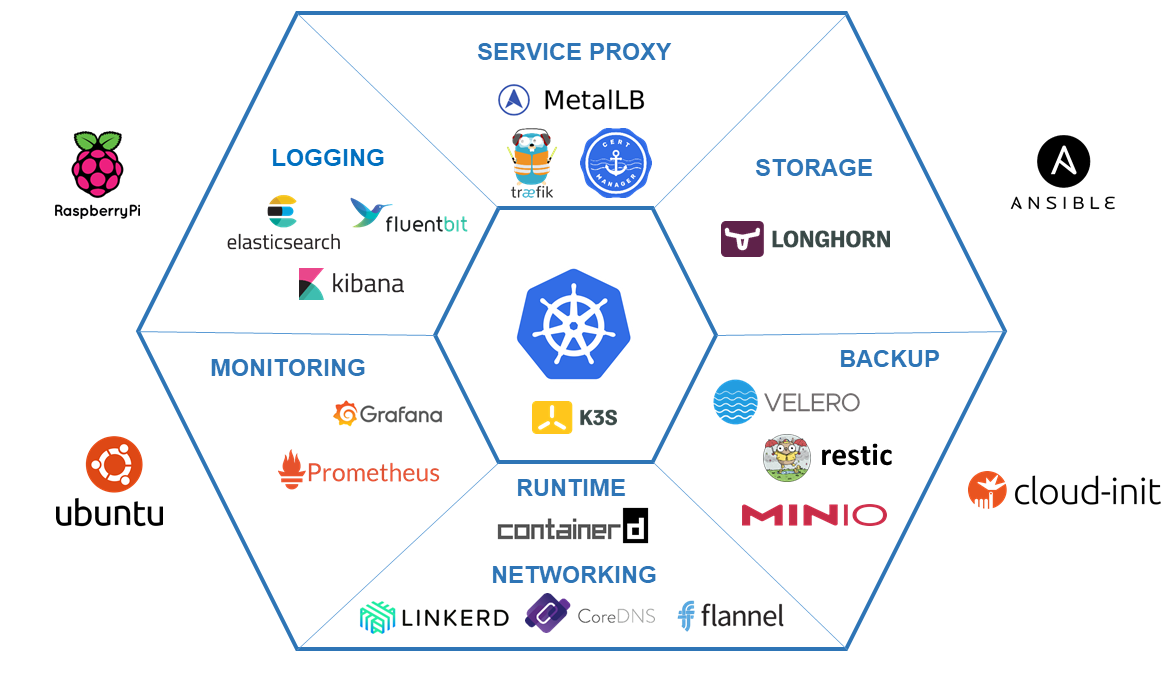
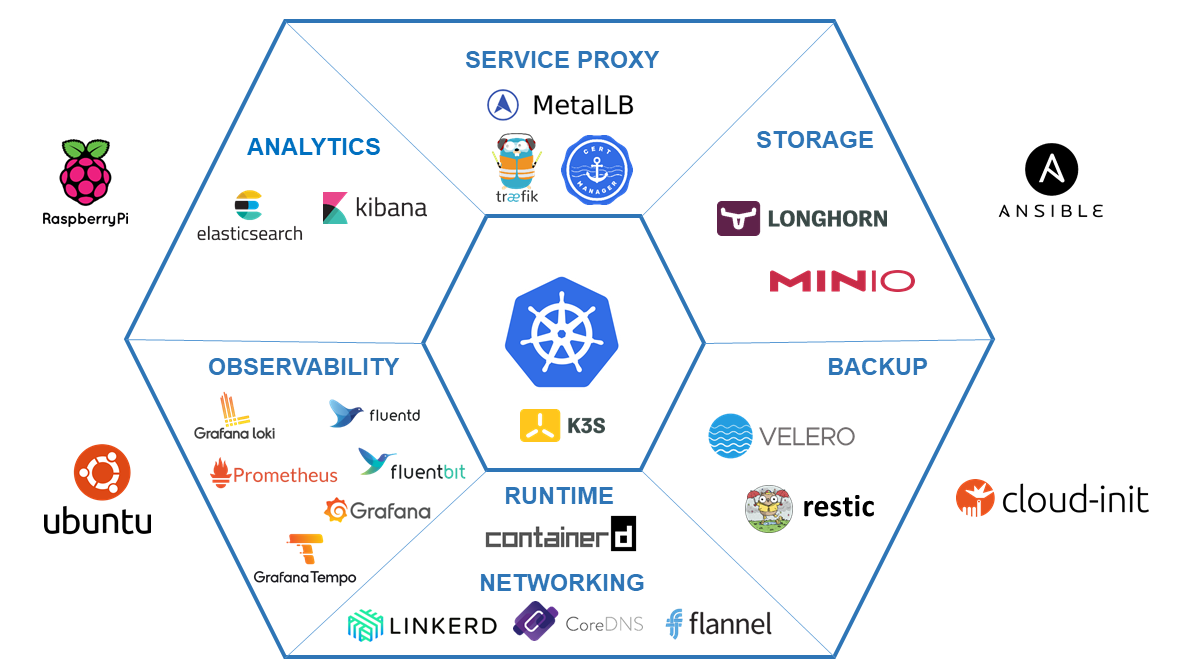
Doc: reorganizing monitoring documentation - Observability

diff --git a/docs/index.html b/docs/index.html
@@ -37,9 +37,7 @@ last_modified_at: "05-04-2022"
         <p class="lead">
             The project scope includes the automation of the deployment and configuration of a <b>lightweight Kubernetes</b> flavor, <a href="https://k3s.io/">K3S</a>,
             and basic cluster services such as: 1) <b>distributed block storage</b> for PODs' persistent volumes, 
-            <a href="https://longhorn.io/">Longhorn</a>, 2) <b>centralized monitoring service</b>, <a href="https://prometheus.io/">Prometheus</a>, 
-            3) <b>centralized log management service</b> EFK (<a href="https://www.elastic.co/elasticsearch/">Elasticsearch</a>-<a href="https://fluentbit.io/">Fluentbit</a>-<a href="https://www.elastic.co/kibana/">Kibana</a>) 
-            , 4) <b>backup/restore solution</b>, <a href="https://velero.io/">Velero</a> and <a href="https://restic.net/">Restic</a> and, 5) <b>service mesh architecture</b>, <a href="https://linkerd.io/">Linkerd</a> .
+            <a href="https://longhorn.io/">Longhorn</a>, 2) <b>backup/restore solution</b>, <a href="https://velero.io/">Velero</a> and <a href="https://restic.net/">Restic</a>, 3) <b>service mesh architecture</b>, <a href="https://linkerd.io/">Linkerd</a>, and 4) <b>observability platform</b> based on <b>metrics monitoring solution</b>, <a href="https://prometheus.io/">Prometheus</a>, <b>logging and analytics solution</b>, EFḰ+LG stack (<a href="https://www.elastic.co/elasticsearch/">Elasticsearch</a>-<a href="https://fluentbit.io/">Fluentbit</a>-<a href="https://www.elastic.co/kibana/">Kibana</a> + <a href="https://grafana.com/oss/loki/">Loki</a>-<a href="https://grafana.com/oss/grafana/">Grafana</a>), and <b>distributed tracing solution</b>, <a href="https://grafana.com/oss/tempo/">Tempo</a>.
         </p>
     </div>
     <hr>

diff --git a/docs/_docs/tracing.md b/docs/_docs/tracing.md
@@ -5,6 +5,17 @@ description: How to deploy a distributed tracing solution based on Grafana Tempo
 last_modified_at: "19-11-2022"
 ---
 
+
+Distributed tracing solution for Kuberentes cluster is based on [Grafana Tempo](https://grafana.com/oss/tempo/).
+
+![tracing-architecture](/assets/img/tracing-architecture.png)
+
+
+Grafana Tempo is used as traces backend and Grafana as front-end. Tempo, integrates a [Open Telemetry collector](https://opentelemetry.io/docs/collector/) enabling the ingestion of traces generated with common open source tracing protocols like Jaeger, Zipkin, and OpenTelemetry.
+
+Tempo requires only object storage backend to operate, and is integrated with Grafana, Prometheus, and Loki. Minio S3 Object Store will be used as Tempo backend.
+
+
 ## Tempo architecture
 
 Tempo architecture is displayed in the following picture (source: [Grafana documentation](https://grafana.com/docs/tempo/latest/operations/architecture/)):
@@ -29,13 +40,10 @@ All Tempo components are included within a single binary (docker image) that  su
 
   In microservices mode, components are deployed in distinct processes. Scaling and HA is specified by microservice.
 
-  - Write nodes: supporting write path. *Distributor* and *Ingestor* components, responsible to store logs and indexes in the back-end storage (Minio S3 storage)
-  - Read nodes: supporting read path. *Ruler*, *Querier* and *Frontend Querier* components, responsible to answer to log queries.
-  - Gateway node: a load balancer in front of Loki (nginx based), which directs `/loki/api/v1/push` traffic to the write nodes. All other requests go to the read nodes. Traffic should be sent in a round robin fashion.
 
 Further details in Tempo architecture documentation: [Tempo Architecture](https://grafana.com/docs/tempo/latest/operations/architecture/) and [Tempo deployment](https://grafana.com/docs/tempo/latest/operations/deployment/)
 
-Loki will be installed using Simple scalable deployment mode using as S3 Object Storage Server (Minio) as backend.
+Tempo will be installed using microservices mode configuring S3 Object Storage Server (Minio) as backend.
 
 ## Configure S3 Minio Server
 
@@ -180,10 +188,6 @@ Where `user_policy.json`, contains the following AWS access policies definition:
   kubectl get pods -l app.kubernetes.io/name=loki -n logging
   ```
   
-
-
-
-
 ## Linkerd traces integration
 
 [Linkerd-jaeger extension](https://linkerd.io/2.12/tasks/distributed-tracing/) is needed for activating the emisson of traces of linkerd-proxys components.

diff --git a/docs/_docs/index.md b/docs/_docs/index.md
@@ -12,7 +12,7 @@ The scope of this project is to create a kubernetes cluster at home using **Rasp
 
 This is an educational project to explore kubernetes cluster configurations using an ARM architecture and its automation using Ansible.
 
-As part of the project the goal is to use a lightweight Kubernetes flavor based on [K3S](https://k3s.io/) and deploy cluster basic services such as: 1) distributed block storage for POD's persistent volumes, [LongHorn](https://longhorn.io/), 2) centralized monitoring tool, [Prometheus](https://prometheus.io/), 3) centralized log management, EFḰ+LG stack ([Elasticsearch](https://www.elastic.co/elasticsearch/)-[Fluentd](https://www.fluentd.org/)/[Fluentbit](https://fluentbit.io/)-[Kibana](https://www.elastic.co/kibana/) + [Loki](https://grafana.com/oss/loki/)-[Grafana](https://grafana.com/oss/grafana/)), 4) backup/restore solution for the cluster, [Velero](https://velero.io/) and [Restic](https://restic.net/), and 5) service mesh architecture, [Linkerd](https://linkerd.io/)
+As part of the project the goal is to use a lightweight Kubernetes flavor based on [K3S](https://k3s.io/) and deploy cluster basic services such as: 1) distributed block storage for POD's persistent volumes, [LongHorn](https://longhorn.io/), 2) backup/restore solution for the cluster, [Velero](https://velero.io/) and [Restic](https://restic.net/), 3) service mesh architecture, [Linkerd](https://linkerd.io/), and 4) observability platform based on metrics monitoring solution, [Prometheus](https://prometheus.io/), logging and analytics solution, EFḰ+LG stack ([Elasticsearch](https://www.elastic.co/elasticsearch/)-[Fluentd](https://www.fluentd.org/)/[Fluentbit](https://fluentbit.io/)-[Kibana](https://www.elastic.co/kibana/) + [Loki](https://grafana.com/oss/loki/)-[Grafana](https://grafana.com/oss/grafana/)), and distributed tracing solution, [Tempo](https://grafana.com/oss/tempo/).
 
 
 The following picture shows the set of opensource solutions used for building this cluster:

diff --git a/README.md b/README.md
@@ -20,7 +20,7 @@ The cluster can be re-deployed in minutes as many times as needed for testing ne
 
 ## Scope
 
-Automatically deploy and configure a lightweight Kubernetes flavor based on [K3S](https://k3s.io/) and deploy cluster basic services such as: 1) distributed block storage for POD's persistent volumes, [LongHorn](https://longhorn.io/), 2) centralized monitoring tool, [Prometheus](https://prometheus.io/) 3) centralized log management, EFK stack ([Elasticsearch](https://www.elastic.co/elasticsearch/)-[Fluentd](https://www.fluentd.org/)/[Fluentbit](https://fluentbit.io/)-[Kibana](https://www.elastic.co/kibana/), 4) backup/restore solution for the cluster, [Velero](https://velero.io/) and [Restic](https://restic.net/) and 5) service mesh architecture, [Linkerd](https://linkerd.io/)
+Automatically deploy and configure a lightweight Kubernetes flavor based on [K3S](https://k3s.io/) and deploy cluster basic services such as: 1) distributed block storage for POD's persistent volumes, [LongHorn](https://longhorn.io/), 2) backup/restore solution for the cluster, [Velero](https://velero.io/) and [Restic](https://restic.net/), 3) service mesh architecture, [Linkerd](https://linkerd.io/), and 4) observability platform based on metrics monitoring solution, [Prometheus](https://prometheus.io/), logging and analytics solution, EFḰ+LG stack ([Elasticsearch](https://www.elastic.co/elasticsearch/)-[Fluentd](https://www.fluentd.org/)/[Fluentbit](https://fluentbit.io/)-[Kibana](https://www.elastic.co/kibana/) + [Loki](https://grafana.com/oss/loki/)-[Grafana](https://grafana.com/oss/grafana/)), and distributed tracing solution, [Tempo](https://grafana.com/oss/tempo/).
 
 The following picture shows the set of opensource solutions used so far in the cluster, which installation process has been documented and its deployment has been automated with Ansible:
 

diff --git a/docs/_docs/observability.md b/docs/_docs/observability.md
@@ -1,0 +1,27 @@
+---
+title: Observability solution
+permalink: /docs/observability/
+description: Observability solution for Raspberry Pi Cluster. Solution based on Grafana Loki (logs), Prometheus (metrics) and Tempo (traces). Observability solution combined with Logs analytics solution based on ElasticSearch and Kibana.
+last_modified_at: "19-11-2022"
+
+---
+
+
+The observability/monitoring solution for Raspberry Pi cluster is the following:
+
+![observability-architecture](/assets/img/observability-architecture.png)
+
+This solution allow to monitor application traces, logs and metrics providing a single pane of glass where all information from an application can be showed in dashboards.
+
+Monitoring solution is based on the following components:
+- [Loki](https://grafana.com/oss/loki/) (logs monitoring)
+- [Grafana Tempo](https://grafana.com/oss/tempo/) (traces monitoring)
+- [Prometheus](https://prometheus.io/) (metrics monitoring)
+- [Grafana](https://grafana.com/oss/grafana/) (monitoring single pane of glass)
+
+Logging solution is complemented with a log analytics solution based on Elasticsearch and Kibana.
+
+![K3S-logs-observability-analytics](/assets/img/logs_loki_es.png)
+
+Common logs collection and distrution layer based on fluentbit/fluentd is used to feed logs to Logs Analytics platform (ES) and Logs Monitoring platform (Loki).
+

diff --git a/docs/_docs/logging.md b/docs/_docs/logging.md
@@ -1,9 +1,9 @@
 ---
-title: Log Management Arquitecture
+title: Logging (EFK and Loki)
 permalink: /docs/logging/
 description: How to deploy centralized logging solution in our Raspberry Pi Kubernetes cluser. Two alternatives, one based on EFK stack (Elasticsearch- Fluentd/Fluentbit - Kibana) and another based on FLG Stack (Fluentbit/Fluentd - Loki - Grafana) 
 
-last_modified_at: "25-10-2022"
+last_modified_at: "19-11-2022"
 
 ---
 
@@ -40,7 +40,6 @@ The logging architecture will have the following components:
 3. Common architecture for log collection, aggregation and distribution based on Fluentbit/Fluentd. Fluentbit/Fluentd can be used to distribute logs to both logs storage platform (ES and Loki) instead of deploying two separate log collectors (Fluentbit and Promtail).
 
    Fluentbit/Fluentd selected over Promtail, because it is a general purpose log colletor/distributor, that can be used to ingest logs from different sources (not only kubernetes), parsing and filtering them, and route them to different destinations. Promtail is tailored only to work only with Loki.
-
 
 {{site.data.alerts.note}}
 

diff --git a/docs/_docs/logging-forwarder-aggregator.md b/docs/_docs/logging-forwarder-aggregator.md
@@ -1,5 +1,5 @@
 ---
-title: Fluentbit/Fluentd (Forwarder/Aggregator)
+title: Logging - Log collection and distribution (Fluentbit/Fluentd)
 permalink: /docs/logging-forwarder-aggregator/
 description: How to deploy logging collection, aggregation and distribution in our Raspberry Pi Kuberentes cluster. Deploy a forwarder/aggregator architecture using Fluentbit and Fluentd. Logs are routed to Elasticsearch and Loki, so log analysis can be done using Kibana and Grafana.
 

diff --git a/docs/_docs/elasticsearch.md b/docs/_docs/elasticsearch.md
@@ -1,5 +1,5 @@
 ---
-title: Elasticsearch and Kibana
+title: Logging - Log Analytics (Elasticsearch and Kibana)
 permalink: /docs/elasticsearch/
 description: How to deploy Elasticsearch and Kibana in our Raspberry Pi Kuberentes cluster.
 last_modified_at: "15-08-2022"

diff --git a/docs/_docs/loki.md b/docs/_docs/loki.md
@@ -1,5 +1,5 @@
 ---
-title: Loki and Grafana
+title: Logging - Logs Aggregation (Loki)
 permalink: /docs/loki/
 description: How to deploy Grafana Loki in our Raspberry Pi Kuberentes cluster.
 last_modified_at: "01-11-2022"
